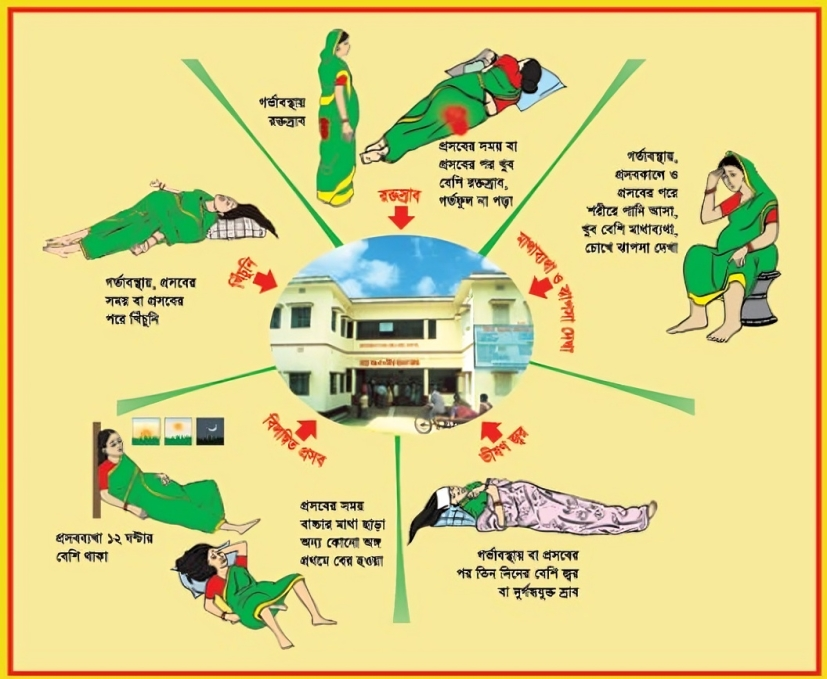
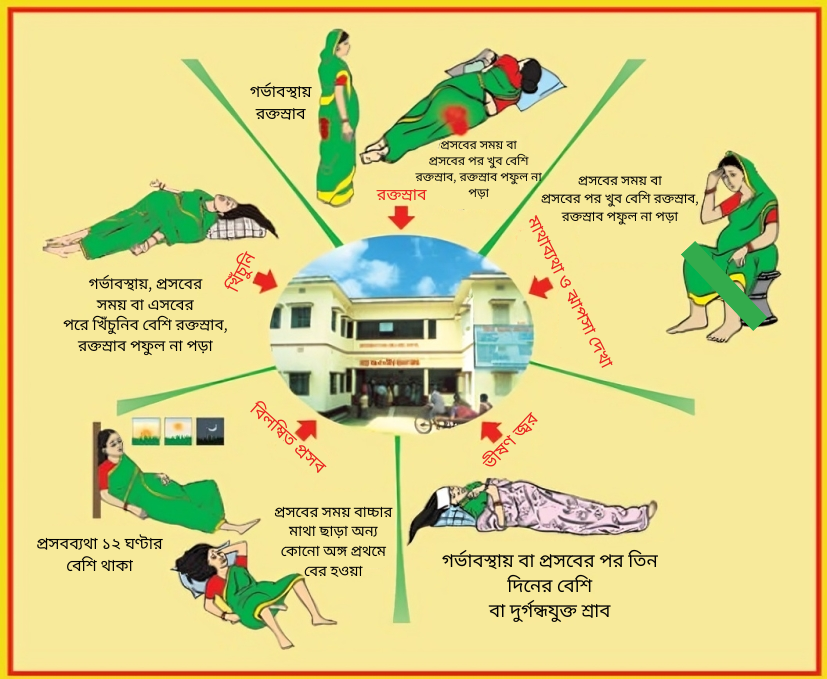
module 8 image update

diff --git a/js/data.js b/js/data.js
@@ -4956,7 +4956,7 @@ const coursesData = [
 
                   <section class="modern-card glass-card menstrual-info-card" data-aos="fade-up" data-aos-delay="40">
                     <div class="row g-4 align-items-center">
-                      <div class="col-lg-6">
+                      <div class="col-lg-12">
                         <h3 class="gradient-text mb-3">${yhLang(
                           "প্রসব পরবর্তী যত্ন",
                           "প্রসব পরবর্তী যত্ন"
@@ -4965,9 +4965,9 @@ const coursesData = [
                           ${renderPoints()}
                         </ul>
                       </div>
-                      <div class="col-lg-6">
-                        <figure class="image-card mb-0" style="min-height:260px;">
-                          <img src="img/modu8/prosob.jpg" alt="প্রসব পরবর্তী যত্ন" style="height:400px;" class="img-fluid img-zoom rounded-4 shadow-sm animate-float-slow" />
+                      <div class="col-lg-12">
+                        <figure class="image-card mb-0">
+                          <img src="img/modu8/prosob.png" alt="প্রসব পরবর্তী যত্ন" class="img-fluid img-zoom rounded-4 shadow-sm animate-float-slow" />
                         </figure>
                       </div>
                     </div>
